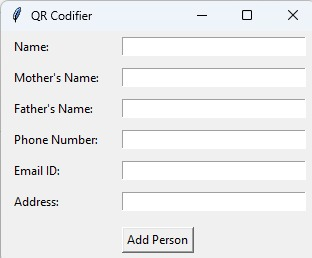
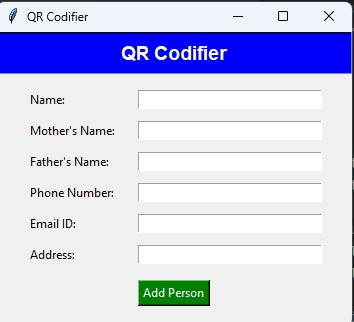
Qr code generator using information 3

Changed region(s): [[0.0, 0.0, 1.0, 1.0], [0.375, 0.8682, 0.6346, 0.9922]]

diff --git a/QR_Codifier.py b/QR_Codifier.py
@@ -75,14 +75,14 @@ def add_person():
 
 
 root = tk.Tk()
-root.title("QR Code Generator")
+root.title("QR Codifier")
 
 # Custom title bar frame
 title_bar = tk.Frame(root, bg="blue", relief=tk.SUNKEN, bd=2)
 title_bar.pack(fill=tk.X)
 
 # Title label inside the custom title bar
-title_label = tk.Label(title_bar, text="QR Code Generator", fg="white", bg="blue", font=("Helvetica", 14, "bold"))
+title_label = tk.Label(title_bar, text="QR Codifier", fg="white", bg="blue", font=("Helvetica", 14, "bold"))
 title_label.pack(pady=5)
 
 # Main content area
